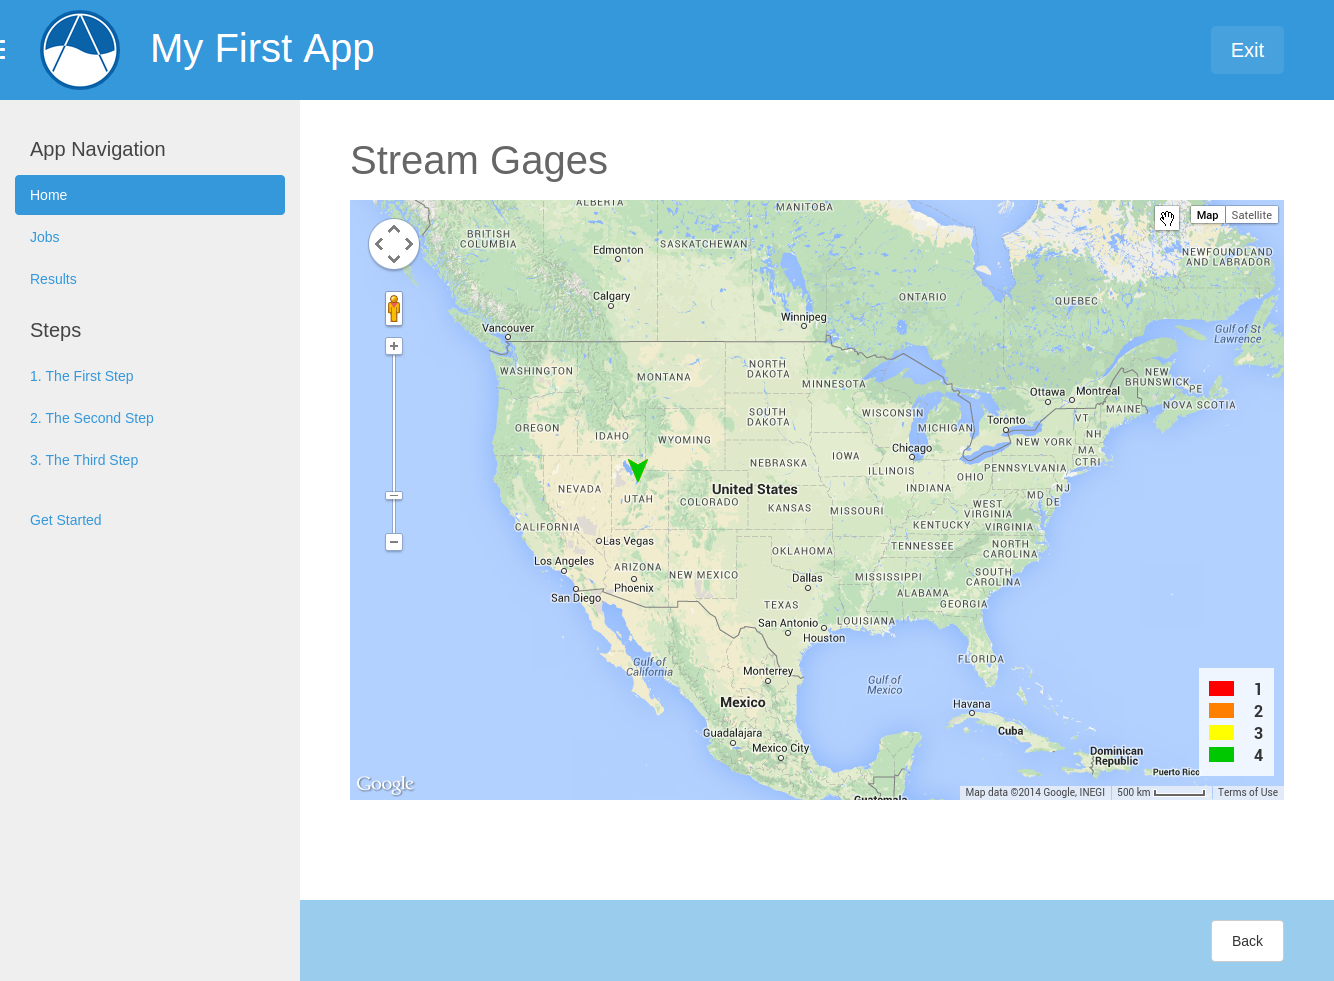
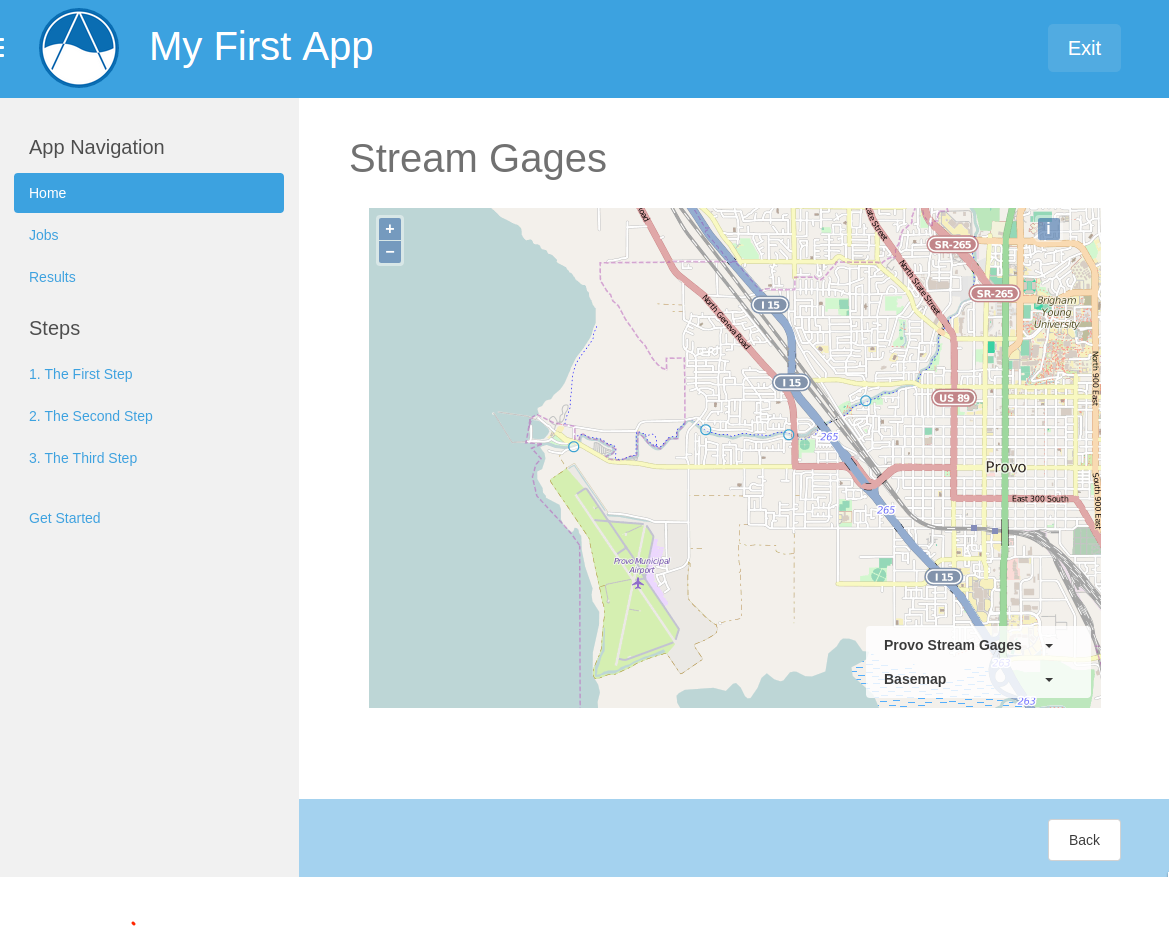
tethys#92 - Updated the map images in the Getting Started tutorial.

diff --git a/docs/tutorials/getting_started/url_mapping.rst b/docs/tutorials/getting_started/url_mapping.rst
@@ -73,7 +73,7 @@ In this code, the ``url`` template tag is used to provide the url to the map pag
 View New Map Page
 =================
 
-At this point, your app should be ready to run again. Save all changes in the files you edited and restart the development server using the ``tethys manage start`` command in the terminal (stop it using :kbd:`CTRL-C` if necessary). Browse to your app home page at `<http://127.0.0.1:8000/apps/my-first-app>`_. Use the "Go To Map" action to browse to your new map page. It should look similar to this:
+At this point, your app should be ready to run again. Save all changes in the files you edited and restart the development server using the ``tethys manage start`` command in the terminal (stop it using :kbd:`CTRL-C` if necessary). Browse to your app home page at `<http://127.0.0.1:8000/apps/my-first-app>`_. Use the "Go To Map" action to browse to your new map page. Click on the "Provo Stream Gages" layer in the legend to zoom to that layer. Your map page should look similar to this:
 
 .. figure:: ../../images/new_map_page.png
     :width: 650px
